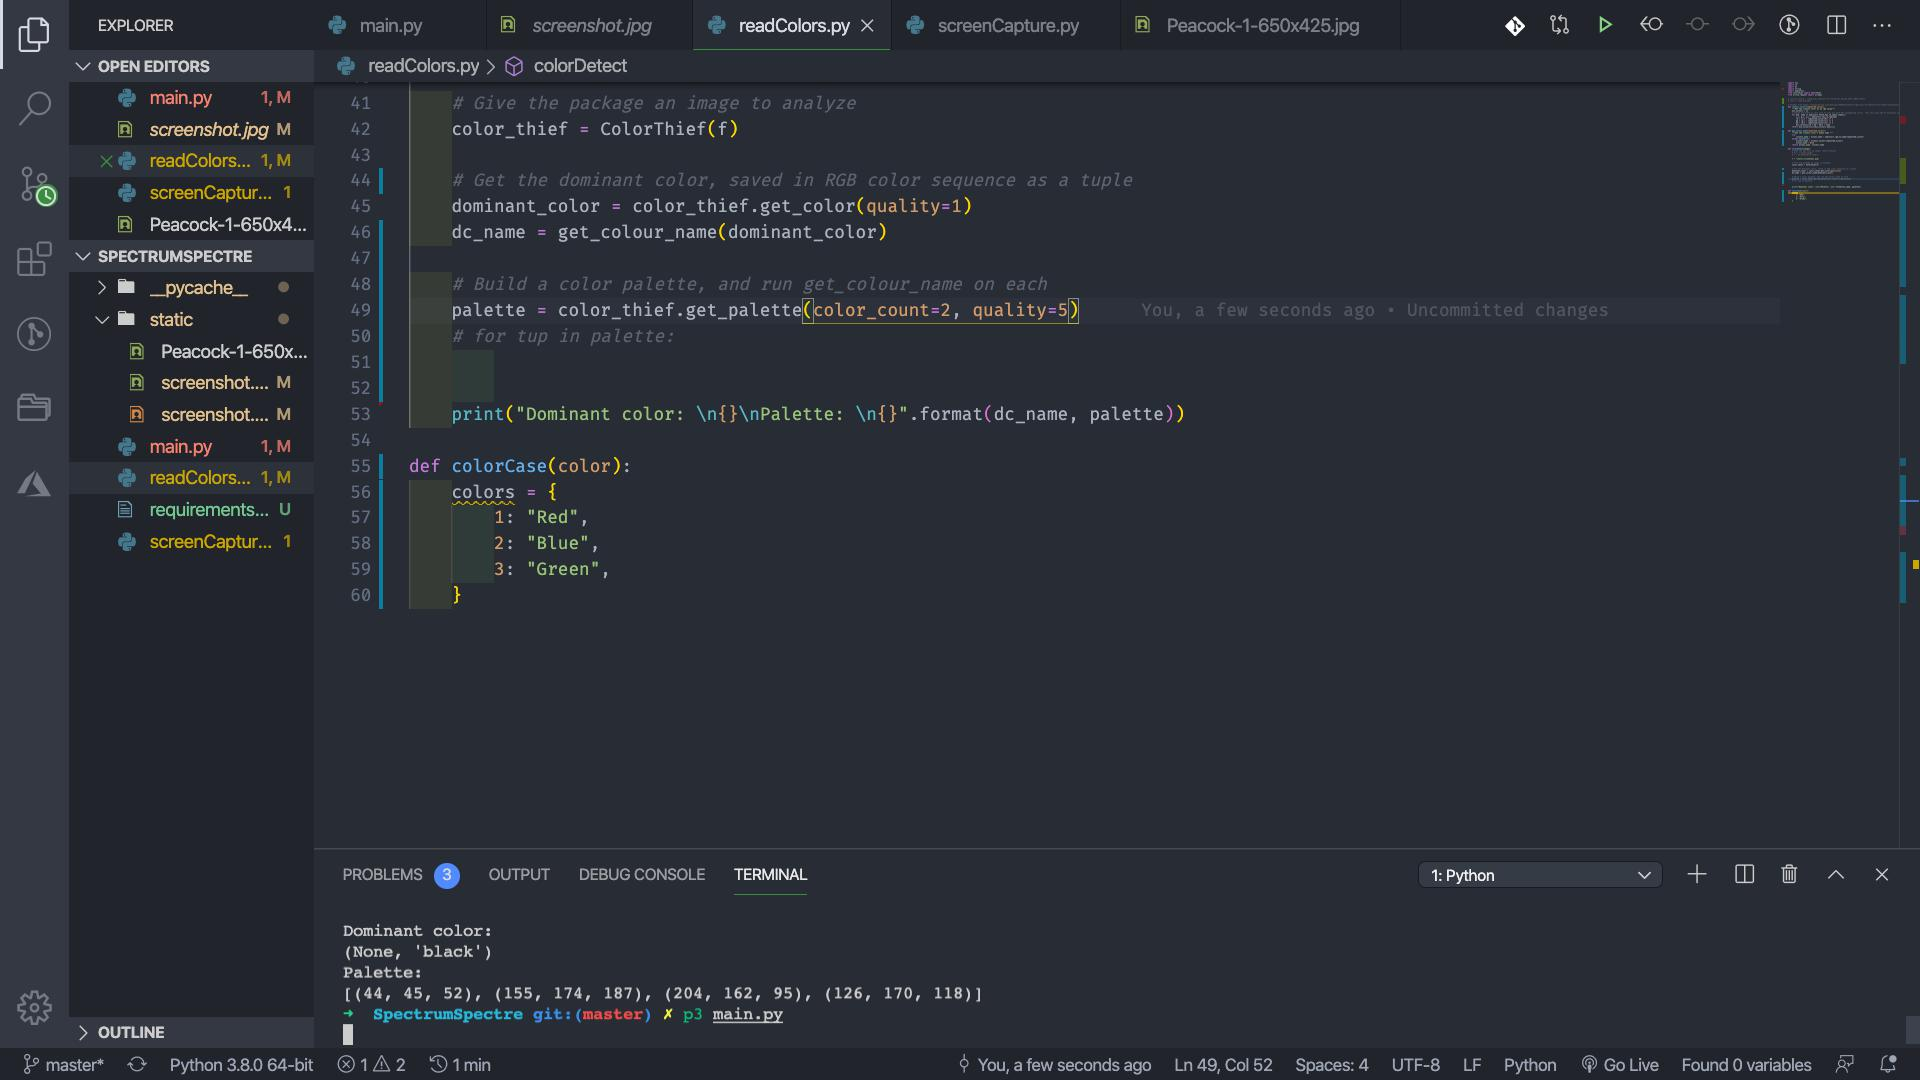
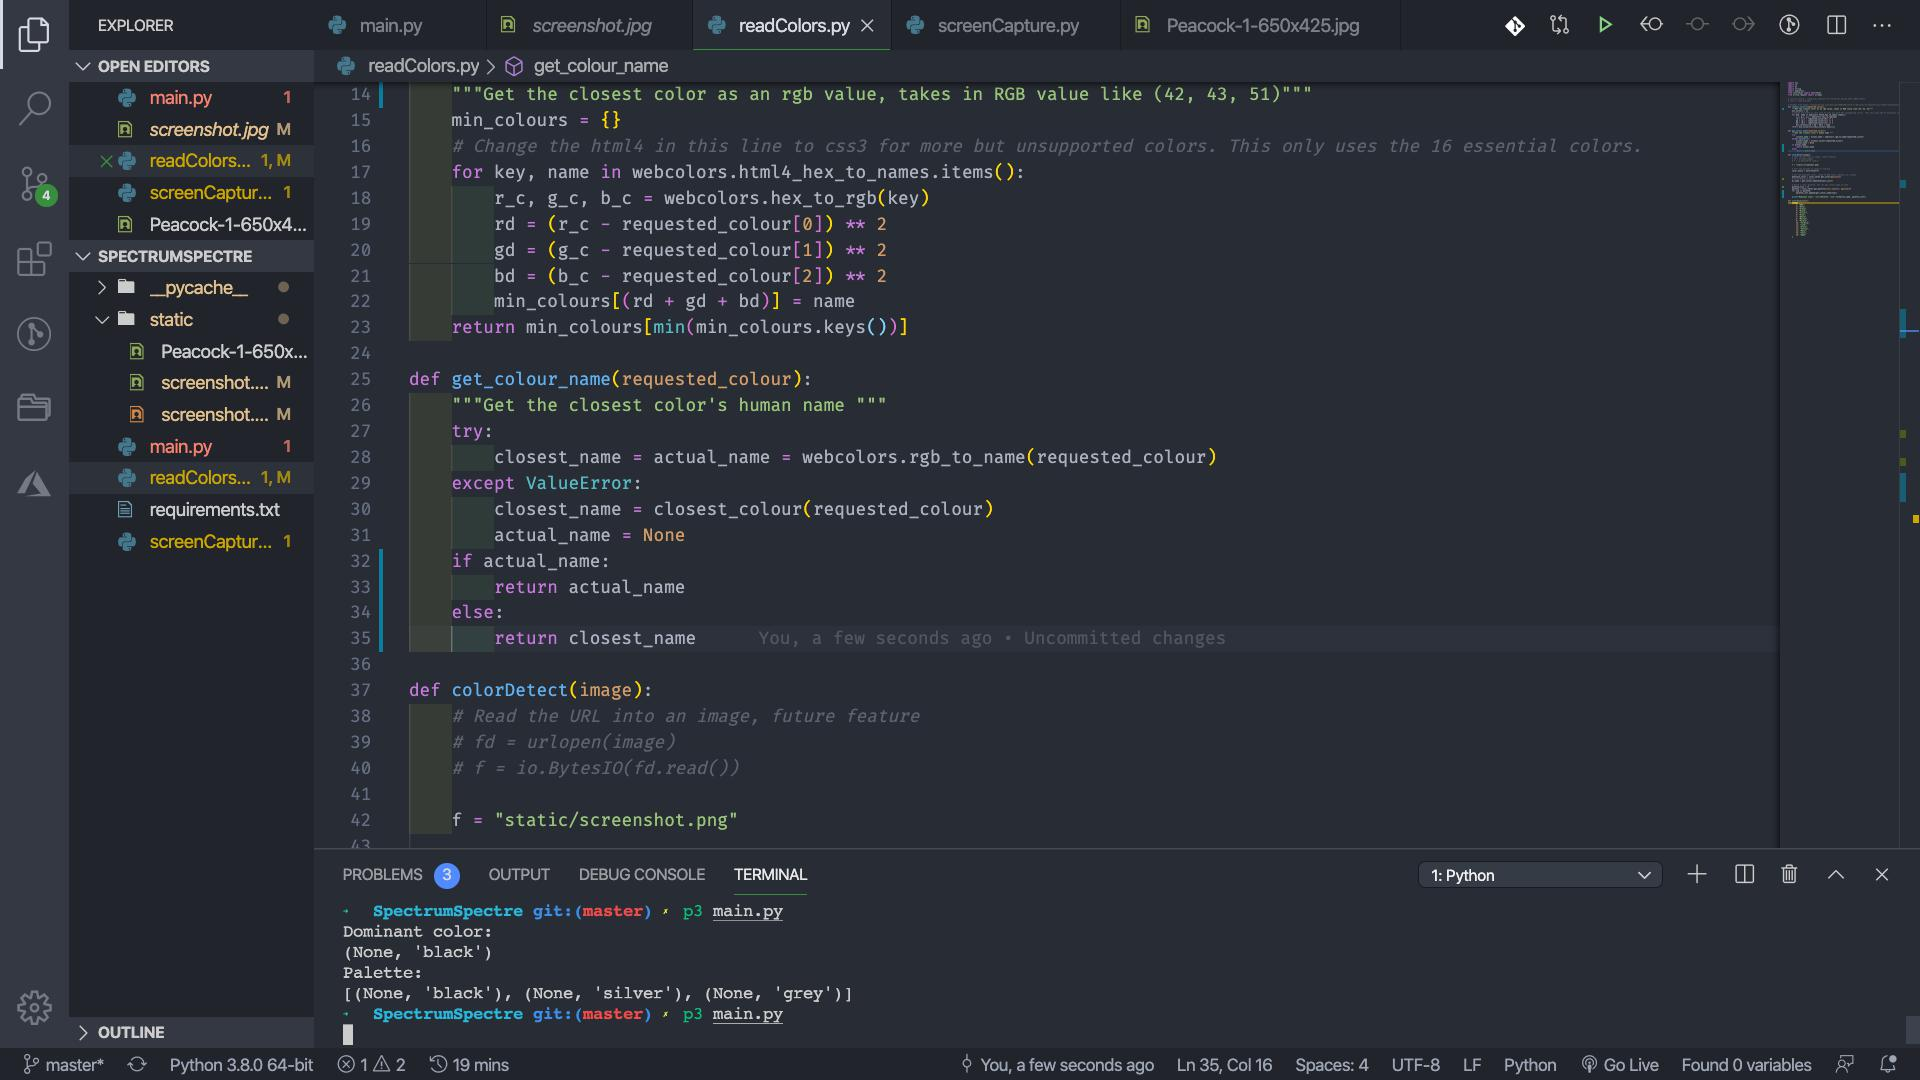
[add] readColors.py: Fully implemented getting the human names for the palette, and now displays all colors. Now just need to add responses for each color

diff --git a/readColors.py b/readColors.py
@@ -11,7 +11,7 @@ from urllib.request import urlopen
 
 # Snippet from https://stackoverflow.com/questions/9694165/convert-rgb-color-to-english-color-name-like-green-with-python
 def closest_colour(requested_colour):
-    """Get the closest color as an rgb value"""
+    """Get the closest color as an rgb value, takes in RGB value like (42, 43, 51)"""
     min_colours = {}
     # Change the html4 in this line to css3 for more but unsupported colors. This only uses the 16 essential colors.
     for key, name in webcolors.html4_hex_to_names.items():
@@ -29,7 +29,10 @@ def get_colour_name(requested_colour):
     except ValueError:
         closest_name = closest_colour(requested_colour)
         actual_name = None
-    return actual_name, closest_name
+    if actual_name:
+        return actual_name
+    else: 
+        return closest_name
 
 def colorDetect(image):
     # Read the URL into an image, future feature
@@ -43,14 +46,16 @@ def colorDetect(image):
     
     # Get the dominant color, saved in RGB color sequence as a tuple
     dominant_color = color_thief.get_color(quality=1)
+    # print(dominant_color)
     dc_name = get_colour_name(dominant_color)
 
     # Build a color palette, and run get_colour_name on each
+    palette_list = []
     palette = color_thief.get_palette(color_count=2, quality=5)
-    # for tup in palette:
-        
-        
-    print("Dominant color: \n{}\nPalette: \n{}".format(dc_name, palette))
+    for tup in palette:
+        palette_list.append(get_colour_name(tup))
+
+    print("Dominant color: \n{}\nPalette: \n{}".format(dc_name, palette_list))
 
 def colorCase(color):
     colors = {
